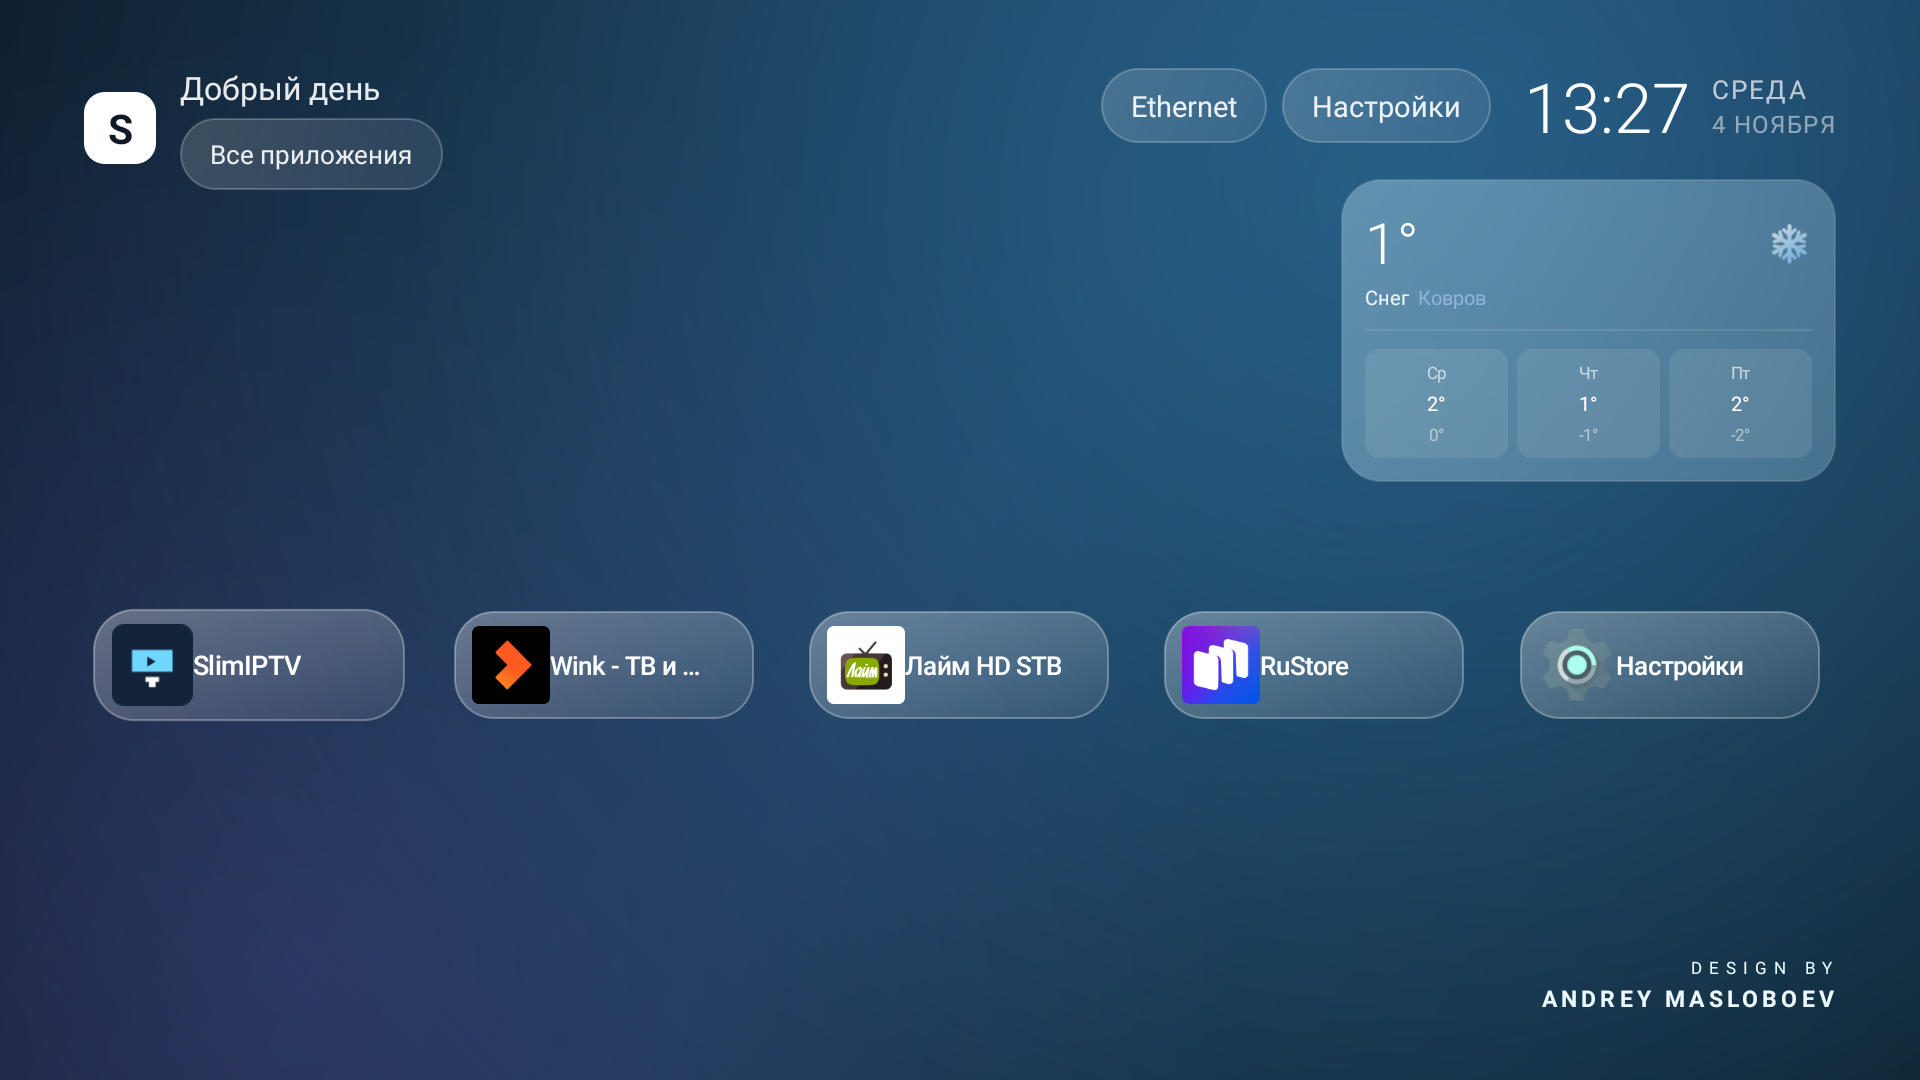
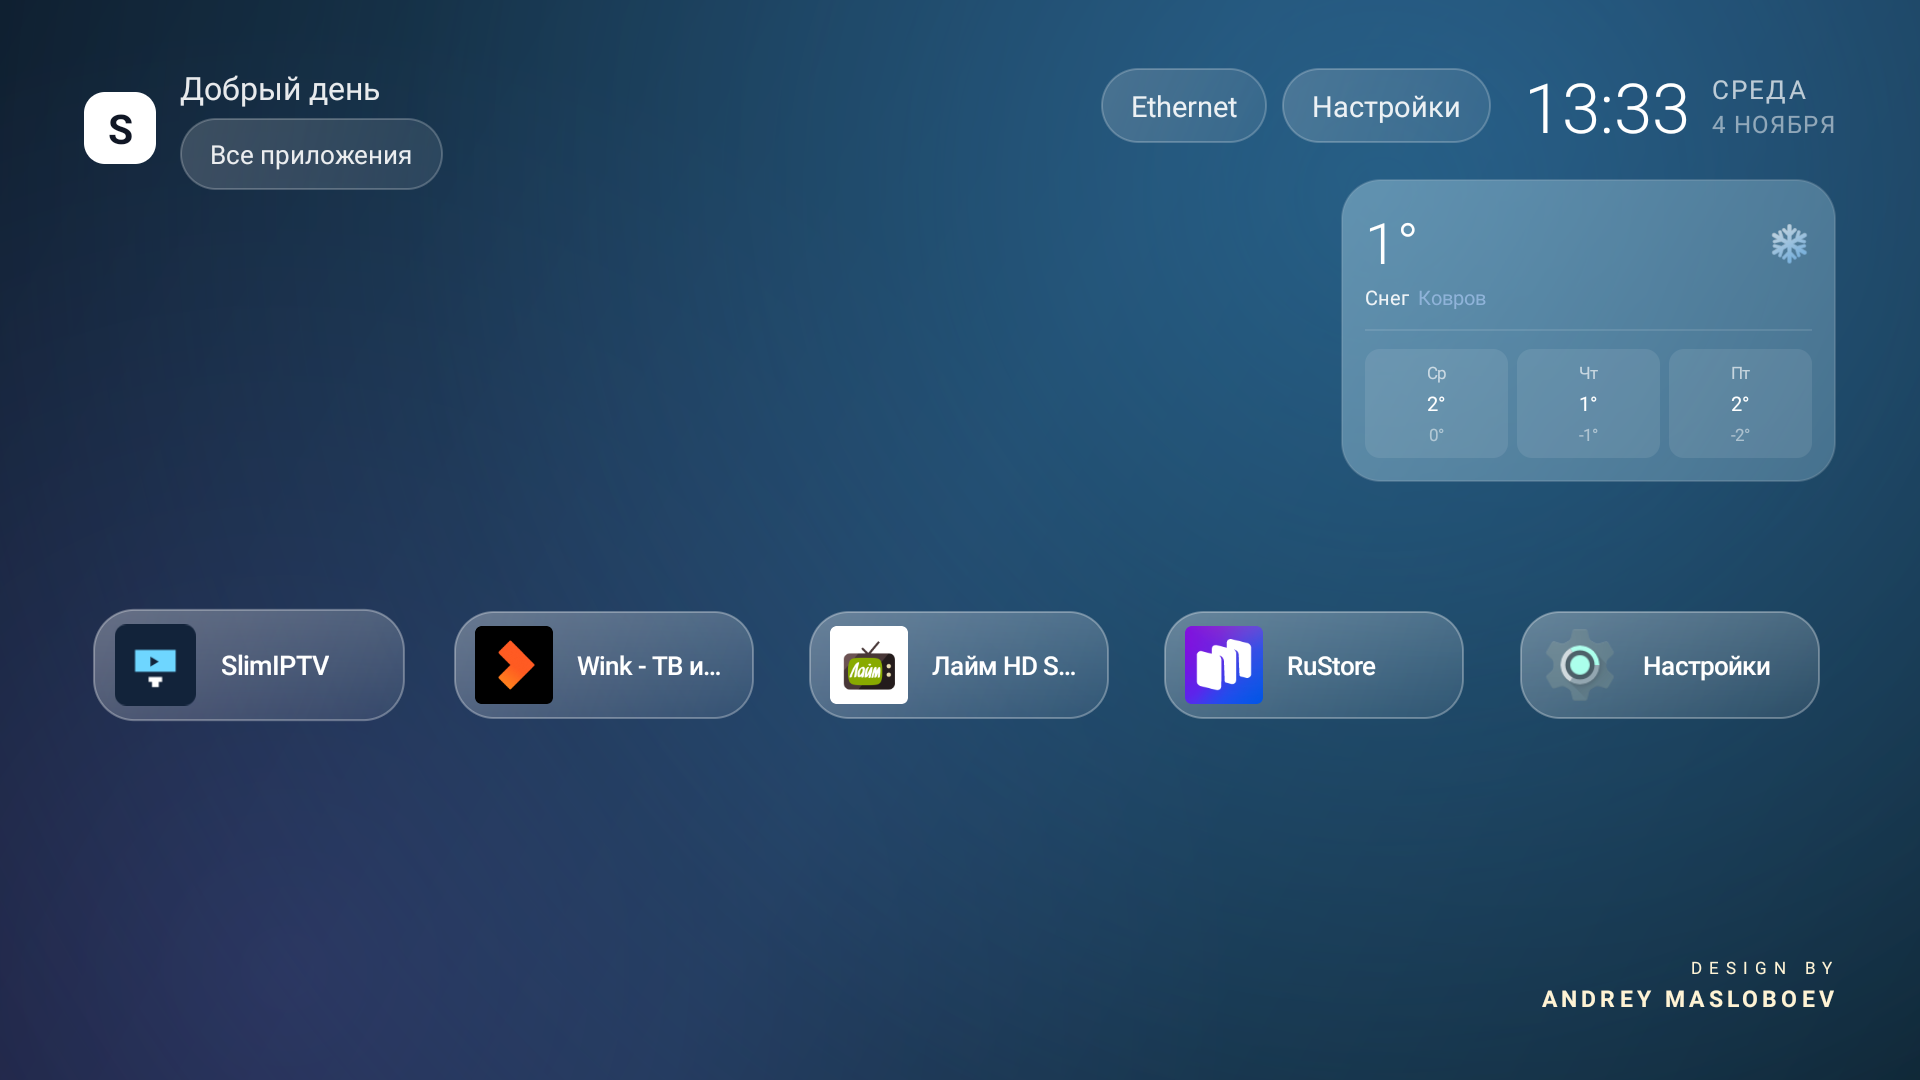
SlimHome 2.1: отступ подписи плитки от иконки

diff --git a/app/src/main/java/com/slimhome/launcher/MainActivity.java b/app/src/main/java/com/slimhome/launcher/MainActivity.java
@@ -782,7 +782,7 @@ public class MainActivity extends Activity {
         inner.setOrientation(LinearLayout.HORIZONTAL);
         inner.setGravity(Gravity.CENTER_VERTICAL);
         inner.setBackgroundResource(R.drawable.tile_min);
-        inner.setPadding(dp(12), dp(10), dp(12), dp(10));
+        inner.setPadding(dp(14), dp(10), dp(18), dp(10));
 
         // одинаковая ширина плашек в ряду: ровные отступы, содержимое внутри
         FrameLayout.LayoutParams flp = new FrameLayout.LayoutParams(
@@ -803,9 +803,10 @@ public class MainActivity extends Activity {
         label.setEllipsize(android.text.TextUtils.TruncateAt.END);
         label.setGravity(Gravity.CENTER_VERTICAL);
         label.setTypeface(Typeface.create("sans-serif-medium", Typeface.NORMAL));
-        label.setMaxWidth(Math.max(dp(70), (frameW > 0 ? frameW : dp(200)) - dp(94)));
+        label.setMaxWidth(Math.max(dp(70), (frameW > 0 ? frameW : dp(200)) - dp(104)));
         LinearLayout.LayoutParams llp = new LinearLayout.LayoutParams(
                 ViewGroup.LayoutParams.WRAP_CONTENT, dp(52));
+        llp.leftMargin = dp(16);
         inner.addView(label, llp);
 
         final CharSequence pkg = ri.activityInfo.packageName;
